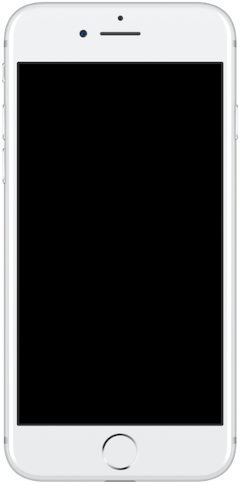
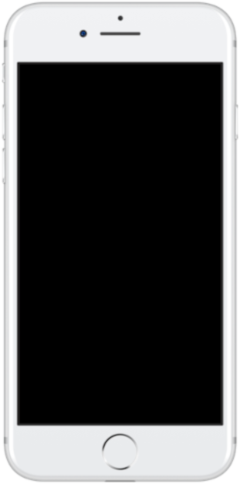
criando a tela homer

diff --git a/home.html b/home.html
@@ -1,0 +1,26 @@
+<!DOCTYPE html>
+<html lang="pt-br">
+<head>
+    <meta charset="UTF-8">
+    <meta http-equiv="X-UA-Compatible" content="IE=edge">
+    <meta name="viewport" content="width=device-width, initial-scale=1.0">
+    <title>Home</title>
+    <style>
+        *{
+            margin: 0px;
+            padding: 0px;
+        }
+        body{
+            width: 100vw;
+            height: 100vh;
+            background: url('imagens/tela-home.jpg');
+            background-repeat: no-repeat;
+            background-position: top center;
+            background-size: cover;
+        }
+    </style>
+</head>
+<body>
+    
+</body>
+</html>

diff --git a/estilos/style.css b/estilos/style.css
@@ -27,8 +27,16 @@ section#telefone{
     top: 50%;
     left: 50%;
     transform: translate(-50%, -50%);
-    width: 240px;
+    width: 311px;
     height: 484px;
     background: url('../imagens/frame-iphone.png');  
-    
+    background-repeat: no-repeat; 
 }
+iframe#tela{
+    position: relative;
+    left: 17px;
+    top: 63px;
+    width: 206px;
+    height: 362px;
+}
+

diff --git a/index.html b/index.html
@@ -11,7 +11,7 @@
 <body>
     <main>
         <section id="telefone">
-
+            <iframe src="home.html" name="tela" id="tela" frameborder="0"></iframe>
         </section>
         <section id="redes-sociais">
 
